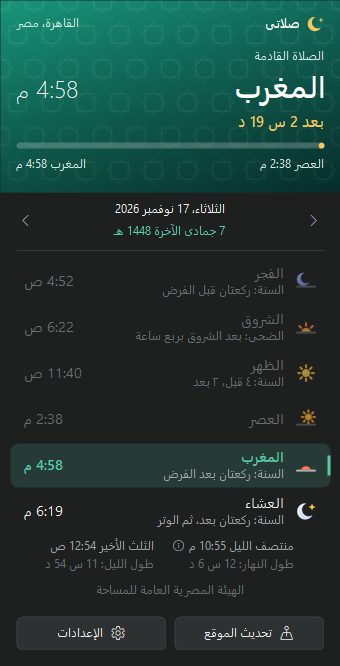
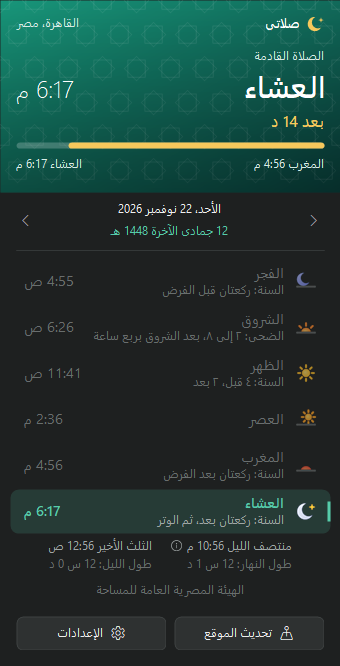
Jumu'ah sunnah on Friday, Duha rak'ahs

diff --git a/src/SalatyReminder/Localization/Strings.cs b/src/SalatyReminder/Localization/Strings.cs
@@ -174,11 +174,15 @@ public static class L
 
     public static CultureInfo Culture => Ar ? CultureInfo.GetCultureInfo("ar-EG") : CultureInfo.GetCultureInfo("en-US");
 
-    /// <summary>Sunan al-Rawatib (confirmed sunnah) around each prayer, plus Duha after sunrise.</summary>
-    public static string Sunnah(Prayer p) => p switch
+    /// <summary>
+    /// Sunan al-Rawatib (confirmed sunnah) around each prayer, plus Duha after sunrise. On Friday Dhuhr is
+    /// Jumu'ah, which has no sunnah before it and two to four rak'ahs after it (Islamweb fatwa 55016).
+    /// </summary>
+    public static string Sunnah(Prayer p, DateTime when) => p switch
     {
+        Prayer.Dhuhr when when.DayOfWeek == DayOfWeek.Friday => Ar ? "السنة: ركعتان إلى ٤ بعدها" : "Sunnah: 2 to 4 after",
         Prayer.Fajr => Ar ? "السنة: ركعتان قبل الفرض" : "Sunnah: 2 before",
-        Prayer.Sunrise => Ar ? "الضحى: بعد الشروق بربع ساعة" : "Duha: from ~15 min after sunrise",
+        Prayer.Sunrise => Ar ? "الضحى: ٢ إلى ٨، بعد الشروق بربع ساعة" : "Duha: 2 to 8, 15 min after sunrise",
         Prayer.Dhuhr => Ar ? "السنة: ٤ قبل، ٢ بعد" : "Sunnah: 4 before, 2 after",
         Prayer.Asr => "",
         Prayer.Maghrib => Ar ? "السنة: ركعتان بعد الفرض" : "Sunnah: 2 after",

diff --git a/src/SalatyReminder/UI/Card/PrayerCard.cs b/src/SalatyReminder/UI/Card/PrayerCard.cs
@@ -348,7 +348,7 @@ sealed class PrayerCard : Form
             // In Ramadan, Fajr's line gives Imsak and Maghrib's says it is Iftar.
             string sub = ramadanDay && p == Prayer.Fajr ? L.F("Imsak", L.Time(Ramadan.Imsak(t), st.Use24h))
                        : ramadanDay && p == Prayer.Maghrib ? L.T("Iftar")
-                       : L.Sunnah(p);
+                       : L.Sunnah(p, t);
             if (st.ShowSunnah && sub.Length > 0)
             {
                 Draw(g, L.PrayerName(p, t), f, c, Box(56, y + 5, 170, 20));

diff --git a/CHANGELOG.md b/CHANGELOG.md
@@ -8,6 +8,14 @@ The format follows [Keep a Changelog](https://keepachangelog.com/en/1.1.0/) and 
 ### Fixed
 - Start with Windows works again on recent Windows 11 builds, which skip a startup entry unless it is also marked as enabled in Windows' startup list. Turning it on now writes that mark too.
 
+## [1.6.5] - 2026-11-22
+
+### Fixed
+- On Friday the Jumu'ah row showed Dhuhr's sunnah (4 before, 2 after). It now says 2 to 4 rak'ahs after, with none before, as in Islamweb fatwa 55016.
+
+### Changed
+- Duha now gives its rak'ahs: 2 to 8, from 15 minutes after sunrise.
+
 ## [1.6.4] - 2026-11-17
 
 ### Changed
@@ -153,6 +161,7 @@ The format follows [Keep a Changelog](https://keepachangelog.com/en/1.1.0/) and 
 - Automatic updates from GitHub Releases with SHA-256 verification.
 - Windows 10 support: the task-button strip is shrunk to make room for the widget.
 
+[1.6.5]: https://github.com/medovanx/salaty-reminder/releases/tag/v1.6.5
 [1.6.5]: https://github.com/medovanx/salaty-reminder/releases/tag/v1.6.5
 [1.6.4]: https://github.com/medovanx/salaty-reminder/releases/tag/v1.6.4
 [1.6.3]: https://github.com/medovanx/salaty-reminder/releases/tag/v1.6.3
